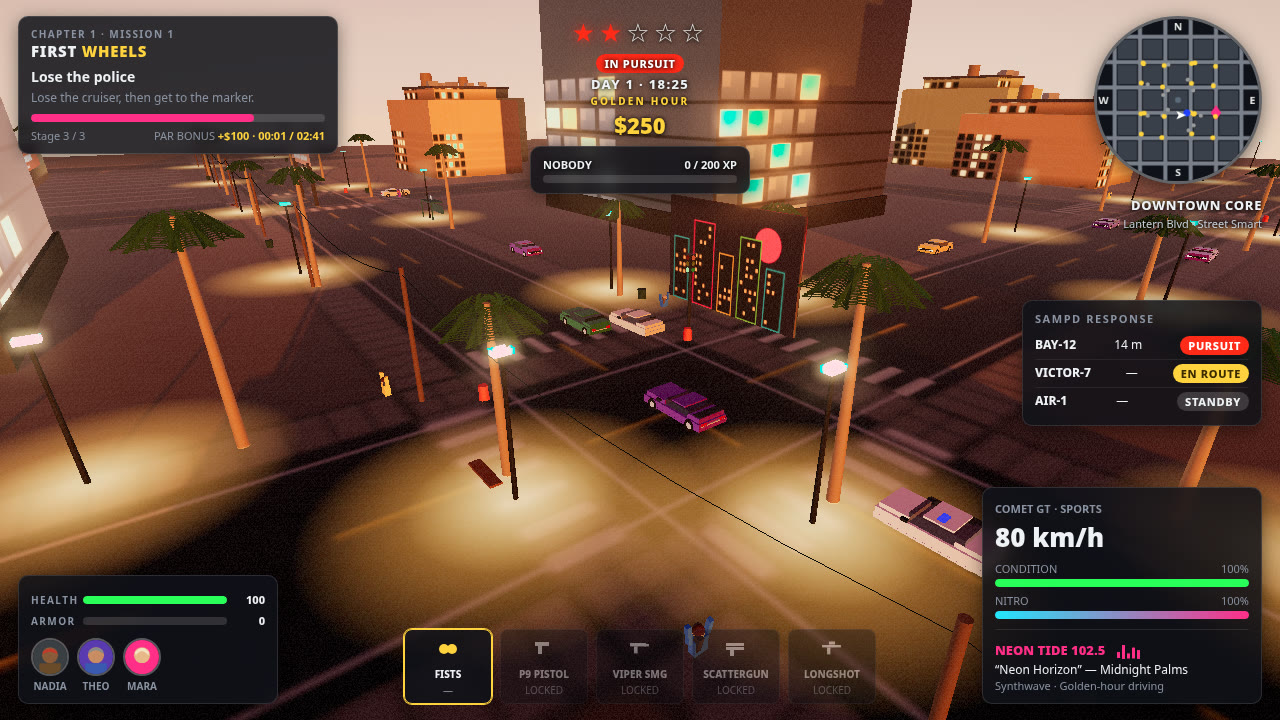
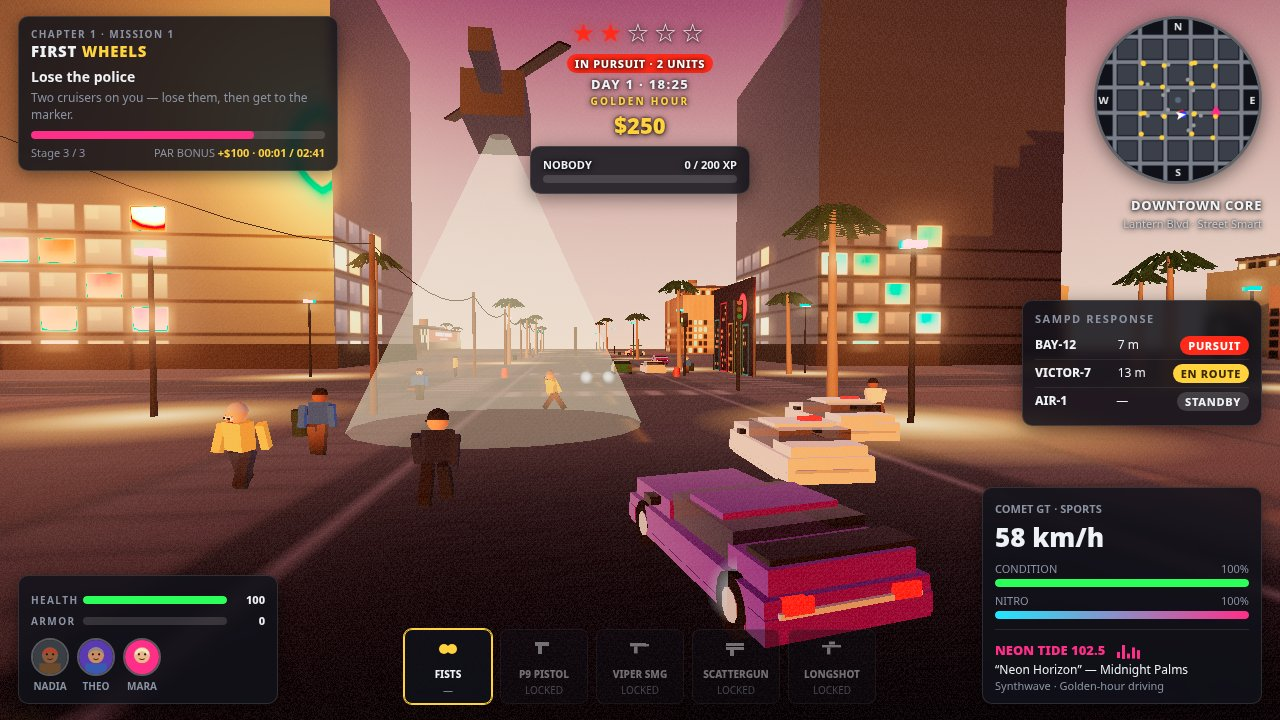
slice 4: re-shot 4 screenshots + PROGRESS slice-4 verification
Cover re-shot (3 critique rounds, all PASS, palm-in-the-road clear,
composition identical to 40afa90); shots 2-4 re-shot, no regressions.
1-chase 185,012 B, 2-mission 158,093 B, 3-drift 160,247 B,
4-night 185,608 B — all 1280x720 JPEG, <=256 KiB. Live play:
wanted 1 -> 2, VICTOR-7 live (221 m). 0 console errors, network
localhost-only. Kit check 4 passed / 0 failed.

diff --git a/PROGRESS.md b/PROGRESS.md
@@ -421,12 +421,22 @@ compact again.
       files (one genuine top comment each).
 - [x] Authorship sweep: a genuine line in all 45 counted files
       (verified by replicating the recorder's rule in Python).
-- [ ] Screenshots re-shot (4/4, 1280x720, <=256 KiB each) with the
-      close behind-car cover; palm-in-the-road PASS/FAIL checked
-      (sizes below, to be filled after the QA run).
-- [ ] Live-play verification: menu -> Continue -> walk -> steal sedan
-      -> drive, wanted 1 -> 2, VICTOR-7 live. 0 console errors;
-      network localhost-only. Kit check 4 passed / 0 failed.
+- [x] Screenshots re-shot (4/4, 1280x720, <=256 KiB each) with the
+      close behind-car cover; palm-in-the-road PASS/FAIL checked —
+      cover rounds r1/r2/r3 all PASS (3/3, 0 console errors each,
+      composition identical to the 40afa90 cover): 1-chase.jpg
+      (185,012 B), 2-mission.jpg (158,093 B), 3-drift.jpg (160,247 B),
+      4-night.jpg (185,608 B). Shots 2–4 match the target frames
+      exactly (no regressions); known nits unchanged (shot 2 stars
+      legible over the Spire; shot 3 water a thin strip at the horizon).
+- [x] Live-play verification: menu -> Continue -> walk -> steal sedan
+      -> drive, wanted 1 -> 2, VICTOR-7 live ("221 m", "IN PURSUIT ·
+      2 UNITS"). Full HUD confirmed (mission "Explore San Amaro"
+      Stage 1/3, 5 stars, health 100, armor 0, money $250, rep NOBODY,
+      radio NEON TIDE 102.5, crew 3, weapons 5, dialogue). 0 console
+      errors; network localhost-only (35 requests, all
+      http://localhost:8080/). Kit check 4 passed / 0 failed
+      (level-26 kit CLI).
 - [ ] SUBMIT — NOT done in this session. Mu approves the re-authored
       result first. Recording 01a1f330 still running; do NOT seal here.
 
